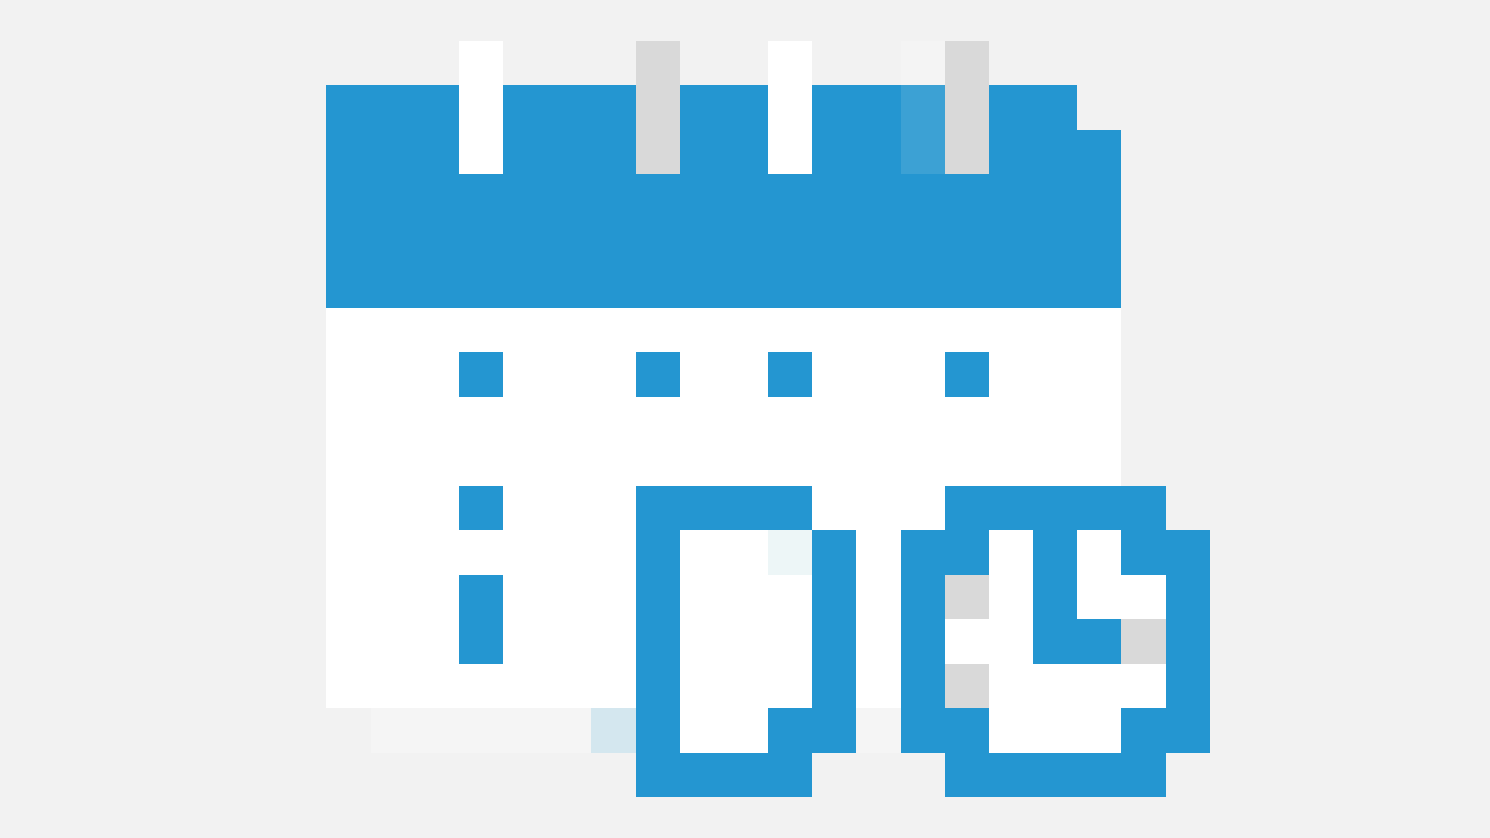
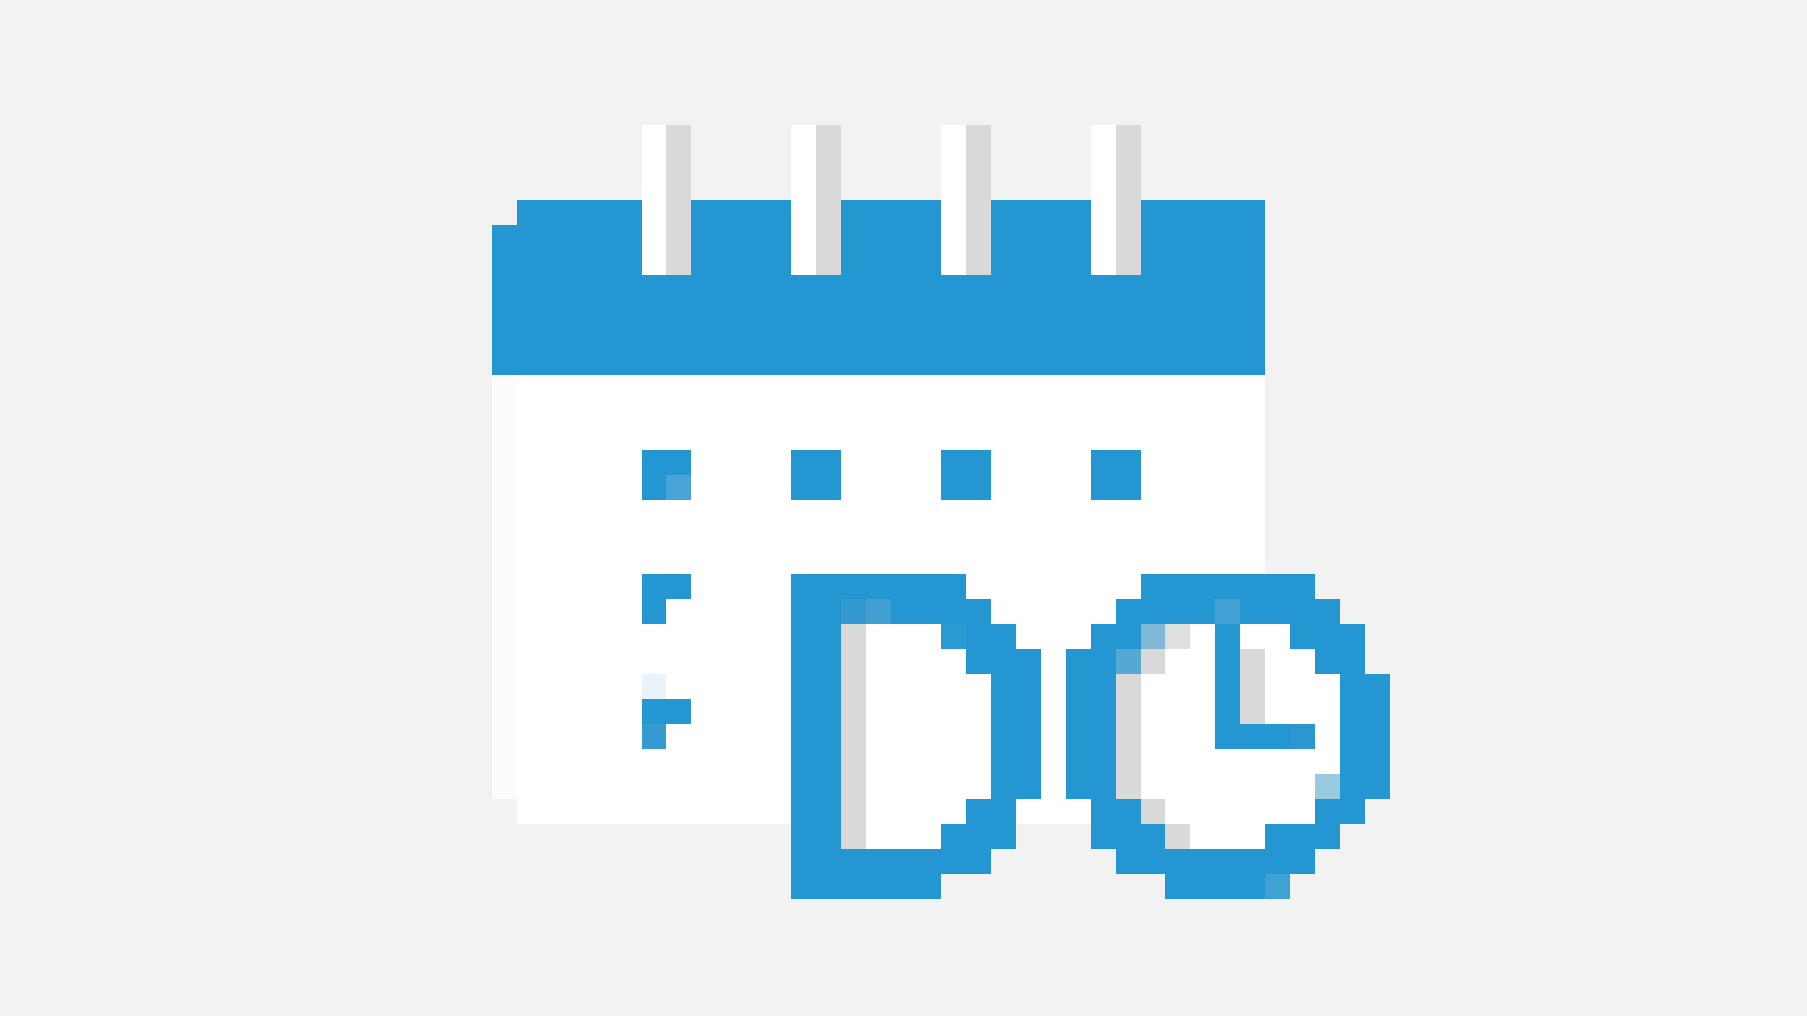
schedoler showcase added
change preview image!!!

diff --git a/index.html b/index.html
@@ -89,15 +89,15 @@
                 <div class="project app1" onClick="goLink('http://karatemd.org/')">
                     <div class="name-hover">
                         <p><b>FNK RM WKF website</b></p>
-                        <p class="no-margin">Landing page for FNK RM WKF using Node.js (Express.js) and Heroku.</p>
+                        <p class="no-margin">Landing page for FNK RM WKF using Express.js and Heroku for hosting.</p>
                     </div>
                 </div>
-                <!-- TODO add one more app -->
+                <!-- !change preview -->
                 <div class="project app2">
-                    <!-- <div class="name-hover">
-                        <p></p>
-                        <p class="no-margin"></p>
-                    </div> -->
+                    <div class="name-hover">
+                        <p><b>ScheDOler</b></p>
+                        <p class="no-margin">Desktop application for scheduling tasks and organizing personal time on Electron.</p>
+                    </div>
                 </div>
             </div>
         </div>

diff --git a/css/default.css b/css/default.css
@@ -15,7 +15,7 @@
 
 .menu-item {
     margin: 2.5vw;
-    font-size: 2.5vw;
+    font-size: 2.2vw;
     color: #2b2b35;
     cursor: pointer;
     z-index: 100;
@@ -187,8 +187,7 @@
 }
 
 .app2 {
-    cursor: default;
-    /* background-image: url("../img/schedoler.png"); */
+    background-image: url("../img/schedoler.png");
 }
 
 
